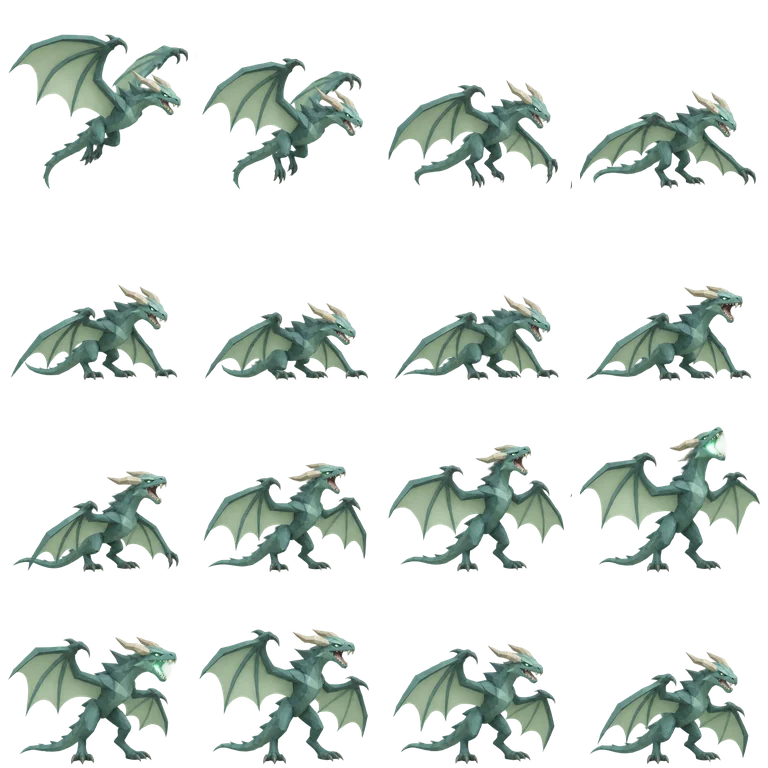
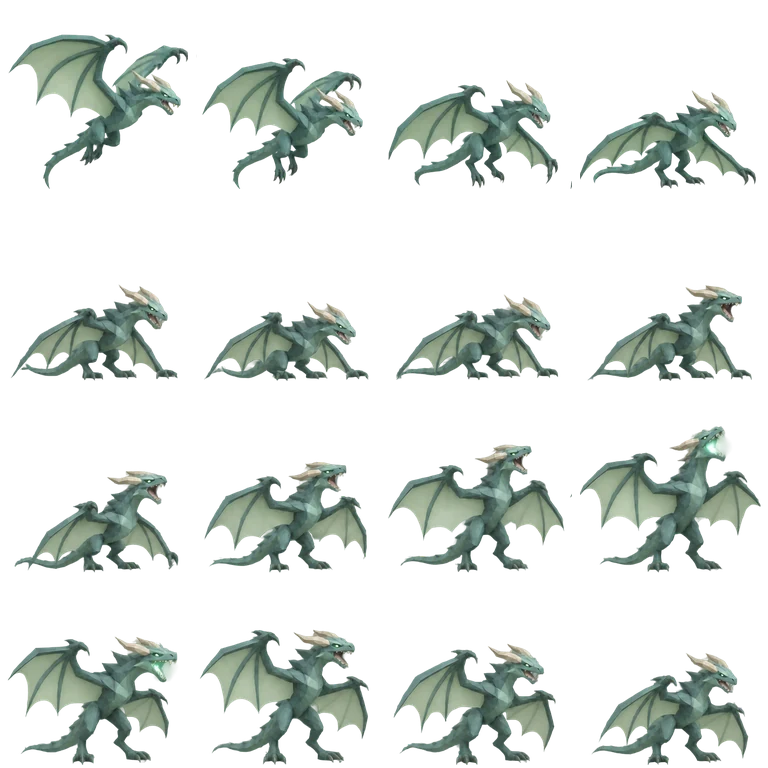
Keep Wynzor’s foreclaws attached to wing wrists

diff --git a/index.html b/index.html
@@ -1,1 +1,1 @@
-<!doctype html><html lang="en"><head><meta charset="utf-8"><meta name="viewport" content="width=device-width,initial-scale=1"><title>Wizardry</title><meta http-equiv="refresh" content="0;url=./arena.html?v=0.277.2"><script>const query=new URLSearchParams(location.search);query.set('v','0.277.2');location.replace('./arena.html?'+query+location.hash);</script></head><body><a href="./arena.html?v=0.277.2">Enter Wizardry</a></body></html>
+<!doctype html><html lang="en"><head><meta charset="utf-8"><meta name="viewport" content="width=device-width,initial-scale=1"><title>Wizardry</title><meta http-equiv="refresh" content="0;url=./arena.html?v=0.277.3"><script>const query=new URLSearchParams(location.search);query.set('v','0.277.3');location.replace('./arena.html?'+query+location.hash);</script></head><body><a href="./arena.html?v=0.277.3">Enter Wizardry</a></body></html>

diff --git a/assets/wynzor.js b/assets/wynzor.js
@@ -1,10 +1,10 @@
 (() => {
   const atlas = new Image();
-  atlas.src = "./assets/wynzor.webp";
+  atlas.src = "./assets/wynzor.webp?v=0.277.3";
   const clamp = n => Math.max(0, Math.min(1, n));
   const ease = n => { const q = clamp(n); return q * q * (3 - 2 * q); };
   const transitions = new Image();
-  transitions.src = "./assets/wynzor-transitions.webp";
+  transitions.src = "./assets/wynzor-transitions.webp?v=0.277.3";
   const poses = [
     [0,0],[.035,16],[.067,17],[.100,1],[.128,18],[.153,19],[.183,2],[.208,3],
     [.232,20],[.258,4],[.283,21],[.310,5],[.335,22],[.362,23],

diff --git a/arena.html b/arena.html
@@ -285,7 +285,7 @@
 <script src="./assets/perfect-defense.js?v=0.274.7" defer></script>
 <script src="./assets/volcanic-eruption.js?v=0.275.1" defer></script>
 <script src="./assets/frozen-touch.js?v=0.276.3" defer></script>
-<script src="./assets/wynzor.js?v=0.277.2" defer></script>
+<script src="./assets/wynzor.js?v=0.277.3" defer></script>
 <script src="./arena.js?v=0.277.2" defer></script>
 <script src="./assets/wizard-home-v135.js?v=0.263.0" defer></script>
 </body>
